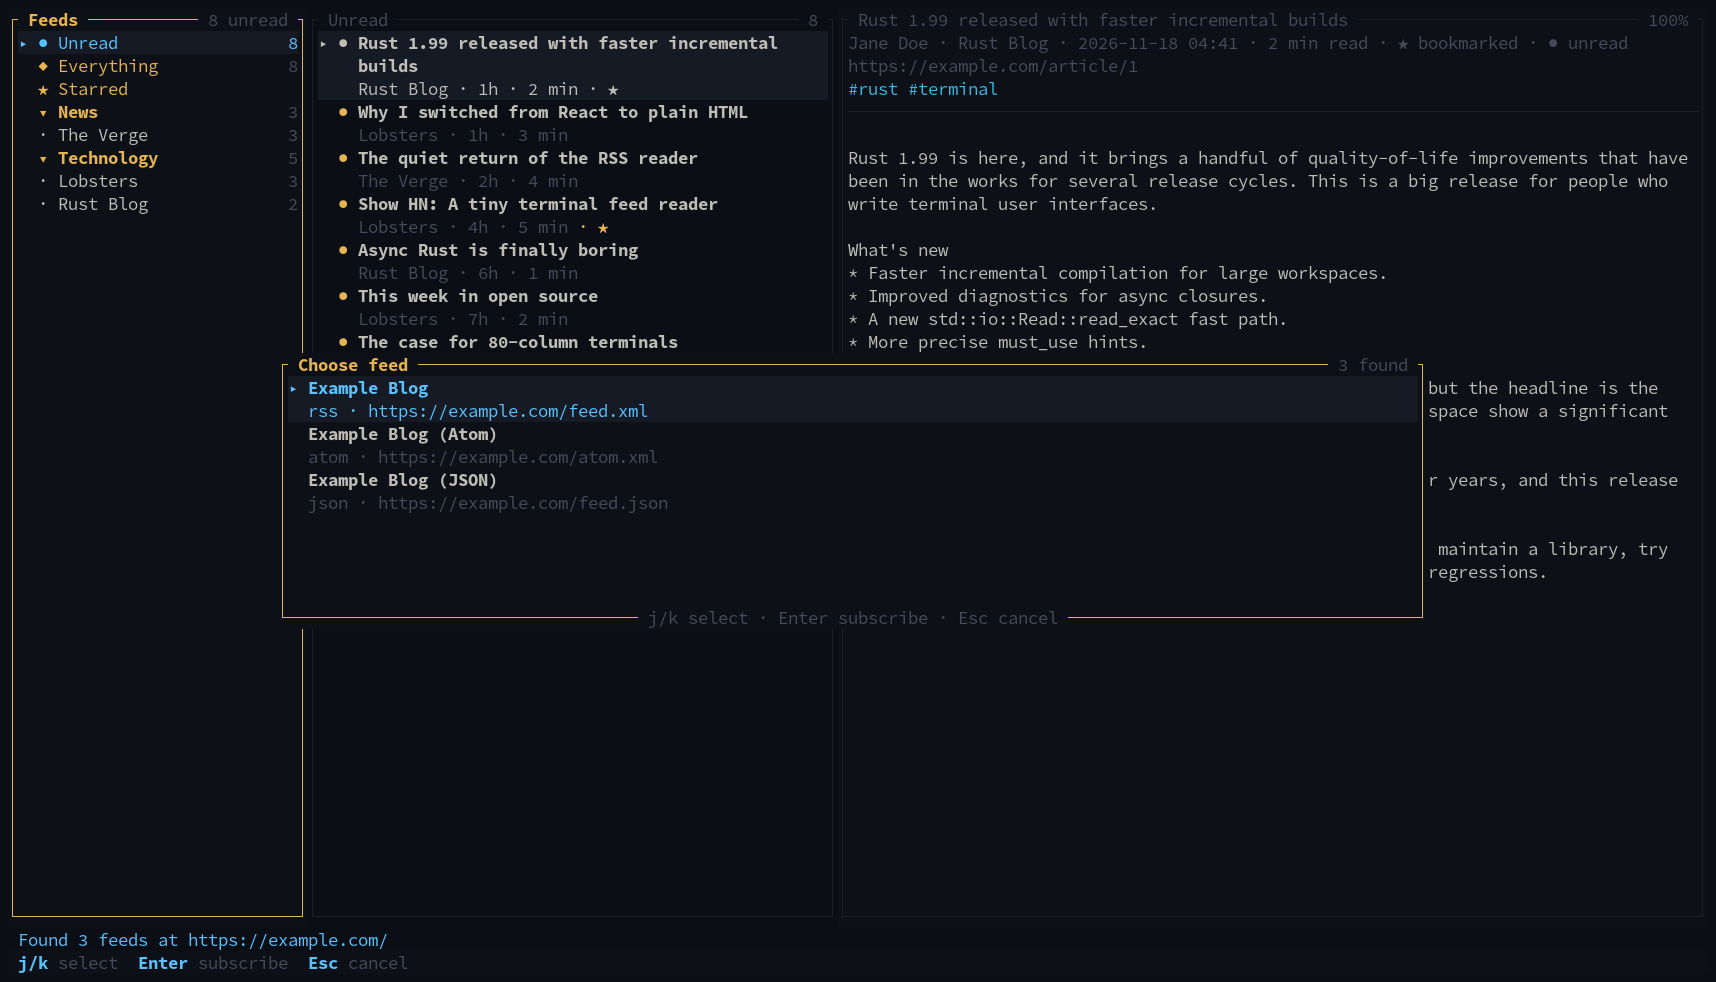
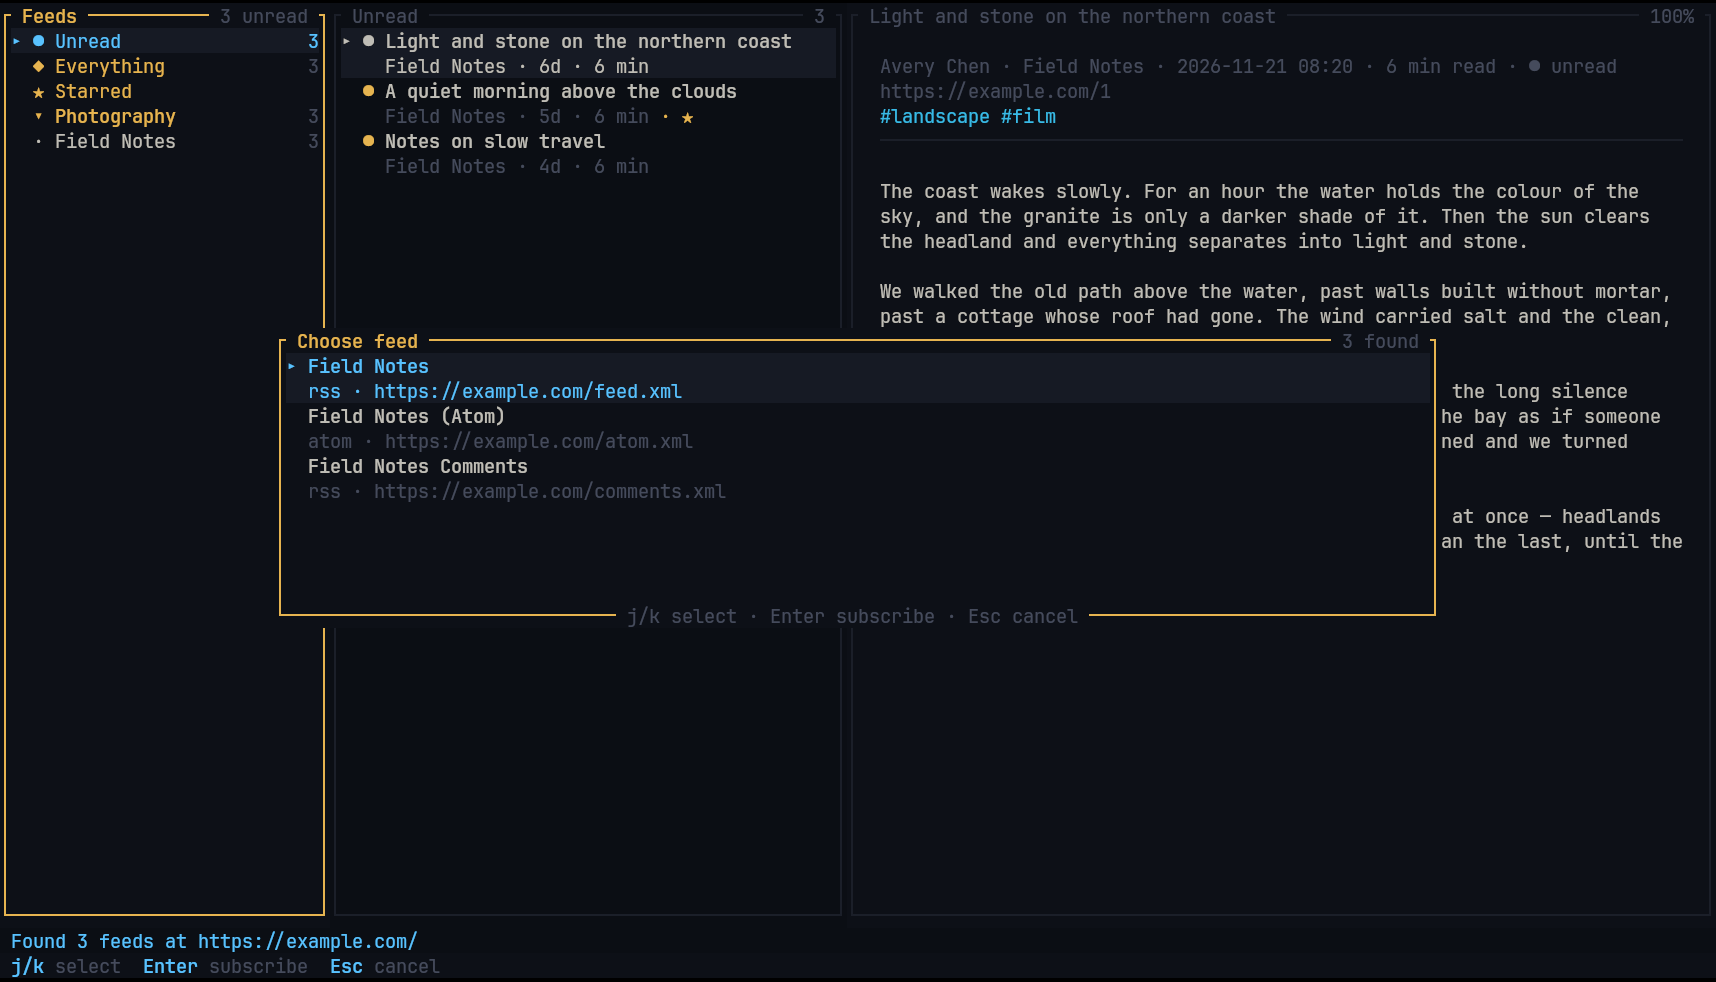
add article image screenshot

diff --git a/README.md b/README.md
@@ -18,6 +18,11 @@ Feed discovery when subscribing with `n` — choose one when several feeds are f
 
 ![fluxgrove feed discovery picker](screenshots/feed-discovery.png)
 
+Embedded article images use the terminal's graphics protocol (Kitty here), with
+Unicode half-blocks as the fallback:
+
+![fluxgrove reader showing an embedded article image](screenshots/images.png)
+
 ## Features
 
 - Three-pane feed / entry / reader layout that adapts to narrow terminals.
